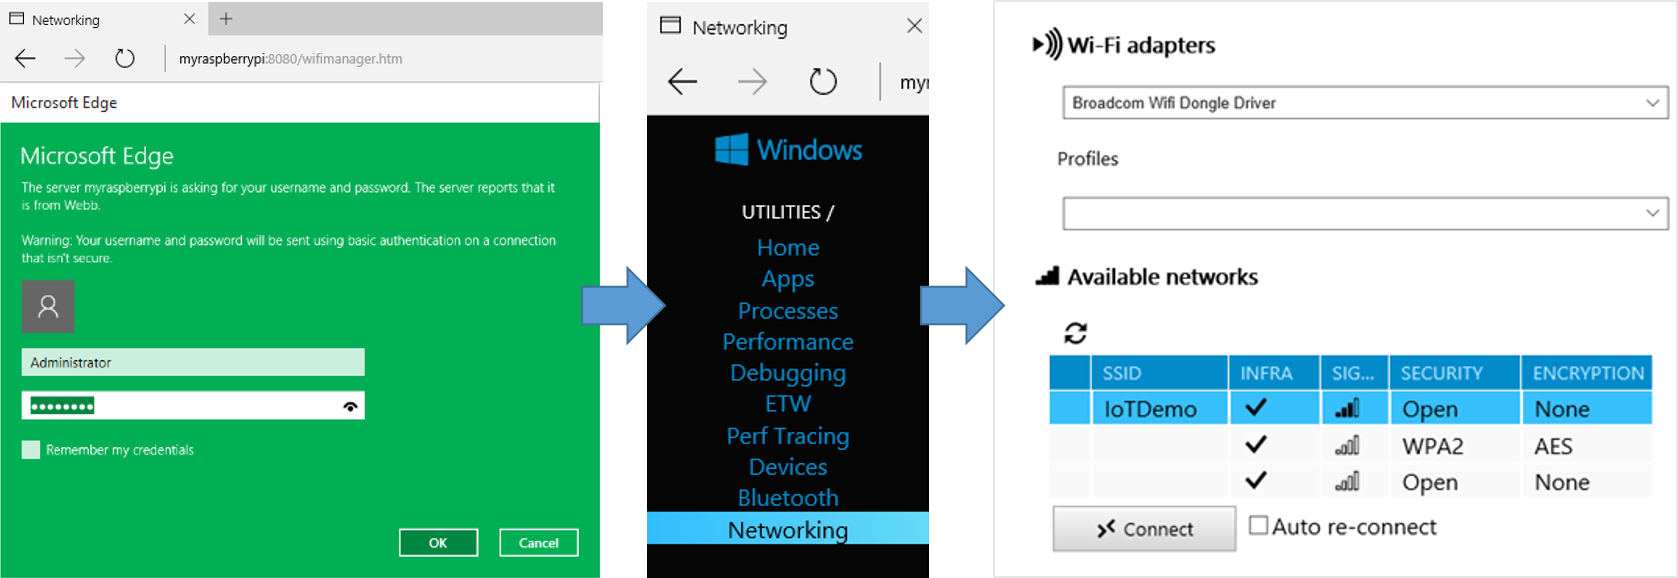
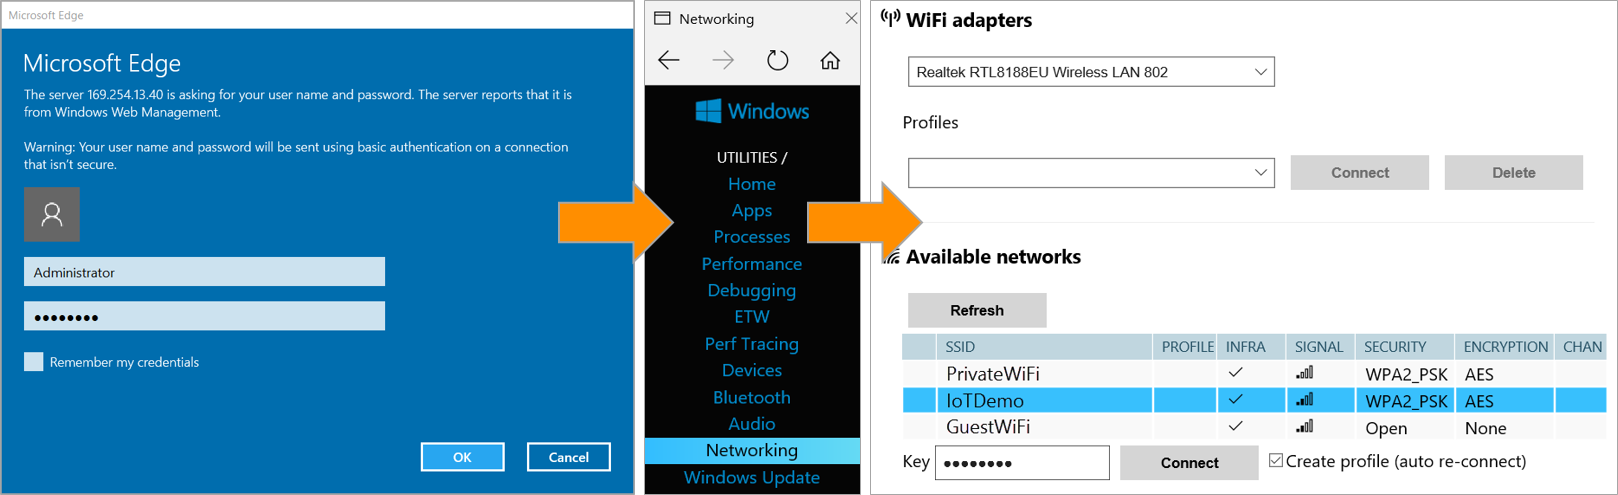
Updated WiFi Configuration Image
The UI on the Management Portal has changed.  Updated the screenshot to
reflect that, and made sure to call out having auto-reconnect enabled.

diff --git a/Devices/DirectlyConnectedDevices/WindowsIoTCorePi2FezHat-IoTHubs/README.md b/Devices/DirectlyConnectedDevices/WindowsIoTCorePi2FezHat-IoTHubs/README.md
@@ -83,6 +83,11 @@ To setup your devices perform the following steps:
 
 7. Run the **Windows 10 IoT Core Watcher** utility (installed in step 2) in your development PC and copy your Raspberry Pi IP address by right-clicking on the detected device and selecting **Copy IP Address**.
 
+	- Click the windows "**Start**" button
+	- Type "**WindowsIoTCoreWatcher**" to pull it up in the search results
+	- You may want to right click on the program name and select "**Pin to Start**" to pin it to your start screen for easy access
+	- Press **Enter** to run it
+
 	![windows-iot-core-watcher](Images/windows-iot-core-watcher.png?raw=true)
 
 8. Launch an administrator PowerShell console on your local PC. The easiest way to do this is to type _powershell_ in the **Search the web and Windows** textbox near the Windows Start Menu. Windows will find **PowerShell** on your machine. Right-click the **Windows PowerShell** entry and select **Run as administrator**. The PS console will show.
@@ -157,17 +162,12 @@ You can also rename the device and set the time zone by using the web server, bu
 
 1. To configure your device, run the **Windows 10 IoT Core Watcher** utility in your development PC and open the [web-based management](http://ms-iot.github.io/content/en-US/win10/tools/DevicePortal.htm) application by right-clicking the detected device and selecting **Web Browser Here**.  To launch the "Windows 10 IoT Core Watcher" utility:
 
-	- Click the windows "**Start**" button
-	- Type "**WindowsIoTCoreWatcher**" to pull it up in the search results
-	- You may want to right click on the program name and select "**Pin to Start**" to pin it to your start screen for easy access
-	- Press **Enter** to run it
-
 	![windows-iot-core-watcher-open-browser](Images/windows-iot-core-watcher-open-browser.png?raw=true)
 
 2. To use WiFi, you will need to provide Windows 10 IoT core with the WiFi network credentials.
 	1. Enter **Administrator** for the username, and supply your password (_**p@ssw0rd**_ by default).
 	2. Click **Networking** in the left-hand pane.
-	3. Under **Available networks**, select network you would like to connect to and supply the connection credentials. Click **Connect** to initiate the connection.
+	3. Under **Available networks**, select network you would like to connect to and supply the connection credentials. Click **Connect** to initiate the connection.  Make sure the "**Create profile (auto re-connect)**" check box is **checked** so that the WiFi network will reconnect automatically if the Raspberry Pi reboots. 
 
 	![networking-wifi-adapters](Images/networking-wifi-adapters.png?raw=true)
 
